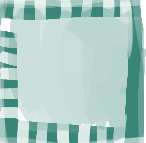
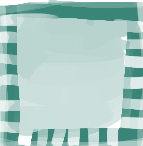
netsOfCube

diff --git a/src/quest/FindCubeUv.js b/src/quest/FindCubeUv.js
@@ -1,8 +1,11 @@
 import React, {useState, useEffect} from 'react';
 import { QuestSketch, IntroHeader, CubeUv, CubeUvArea, IntroButtonHolder, IntroButton } from '../styles/divStore';
 import { precache } from 'sw-toolbox';
+import nets from './netsOfCube';
 
-const uvId = (u, v) => `${u}:${v}`;
+const WIDTH = 5;
+const HEIGHT = 7;
+const uvId = (u, v) => `${u}${v}`;
 
 const randomCubUvMatrix = (x, y) => {
   return Array( x * y ).fill(0).map( (_, i) => {
@@ -17,8 +20,29 @@ const randomCubUvMatrix = (x, y) => {
   });
 };
 
-const CubeUvFragment = (selections, handleSelect) => ({side, dir, key}) => {
-  const selectedStyle = selections[key] ? {filter: 'brightness(2)'} : {}; // {border: '3px solid gold'}
+const getRandomNet = (index = Math.random() * nets.length | 0) => nets[index];
+
+const placeCubeShape = (net, position=[1,2], setMatrix) => {
+  const [x,y] = position;
+  const netMatrix = net.split(/\n/).filter(hor => hor.length).map(hor => hor.split(':'));
+  console.log(netMatrix);
+  setMatrix( mtx => {
+    netMatrix.map((hor, iy) => hor.map((uv, ix) => {
+        const [u,v] = [x + ix, y + iy];
+        const pos = u + v * WIDTH;
+        let [side, dir] = uv.split('');
+        dir.replace('Y','N').replace('J','S');        
+        if (side !== '-' && mtx[pos]) {
+          mtx[pos] = {...(mtx[pos]), side, dir, fine:true};
+        }        
+      })      
+    );
+    return mtx;    
+  });
+}
+
+const CubeUvFragment = (selections, handleSelect, hasWin) => ({side, dir, key}) => {
+  const selectedStyle = selections[key] ? hasWin ?  {filter: 'brightness(4) sepia(1)'} : {filter: 'brightness(2)'} : {}; // {border: '3px solid gold'}
   return (
     <CubeUv  key={key} data-uv={side} data-dir={dir} style={selectedStyle} onClick={handleSelect(key)}/>
   );
@@ -28,6 +52,7 @@ const CubeUvFragment = (selections, handleSelect) => ({side, dir, key}) => {
 export default ({}) => {
   const [matrix, setMatrix] = useState([]);
   const [selections, setSelections] = useState({});
+  const [hasWin, setWin] = useState(false);
     
   useEffect(() => {
     randomCubUvMatrix(5, 7) |> setMatrix;
@@ -38,16 +63,10 @@ export default ({}) => {
     let matrixLookUp = matrix
       .filter(e => selectedKeys.indexOf(e.key) !== -1)
       .reduce((r, e) => ({...r, [e.key]: e}) , {});
-      
-    
-    console.log( 
-      `
---- RULES ---       
-       six : ${selectedKeys.length === 6}
-no 4 sided : ${selectedKeys.filter(key => matrixLookUp[key].side === 4)}
 
+    const found = selectedKeys.filter(key => matrixLookUp[key].fine);
+    setWin(found.length === 6 && selectedKeys.length === 6);
 
-    `);
   }, [selections]);
 
   // JSON.stringify(matrixLookUp, null, 2)
@@ -58,13 +77,14 @@ no 4 sided : ${selectedKeys.filter(key => matrixLookUp[key].side === 4)}
   const handleSolutionIsValid = event => {
     const selectedUvs = matrix.filter(({key}) => selections[key]);
     const [first, second] = selectedUvs;
+
     if (selectedUvs.length === 1) { 
-      first.dir = {N:'W',W:'S',S:'E',E:'N'}[first.dir];
-      setMatrix(prev => prev.map(uv => uv.key === first.key ? first : uv) );
+      first.dir = {N:'E',E:'S',S:'W',W:'N'}[first.dir];
+      setMatrix(mtx => mtx.map(uv => uv.key === first.key ? first : uv) );
     }
 
     if (selectedUvs.length === 2) { 
-      setMatrix(prev => prev.map(
+      setMatrix(mtx => mtx.map(
         uv => uv.key === first.key 
           ? ({...uv, side:second.side}) 
           : uv.key === second.key 
@@ -80,13 +100,15 @@ no 4 sided : ${selectedKeys.filter(key => matrixLookUp[key].side === 4)}
     <QuestSketch style={{overflow:'hidden'}} >
       <IntroHeader>Meg kell találni a kocka kiterített lapjait.</IntroHeader>
       <CubeUvArea >
-        {matrix.map(CubeUvFragment(selections, handleSelect))}
+        {matrix.map(CubeUvFragment(selections, handleSelect, hasWin))}
       </CubeUvArea>
       <IntroButtonHolder>
         <IntroButton onClick={handleSolutionIsValid}>Ellenőrzés</IntroButton>
         <IntroButton onClick={e => {
-          randomCubUvMatrix(5, 7) |> setMatrix;
+          randomCubUvMatrix(WIDTH, HEIGHT) |> setMatrix;
           setSelections({})
+          const rnet = getRandomNet();
+          placeCubeShape(rnet, [Math.random() * 3 | 0, Math.random() * 3 | 0], setMatrix);      
         }}>Reset</IntroButton>        
       </IntroButtonHolder>
     </QuestSketch>

diff --git a/src/quest/netsOfCube.js b/src/quest/netsOfCube.js
@@ -1,0 +1,83 @@
+export default [
+
+// 2N = 2N | 2S
+// 0J = 0N | 0E | 0S | 0W  
+ 
+`
+3E:1N:3W
+--:2Y:--
+--:2Y:--
+--:3N:--
+`
+,
+`
+--:5E:3W
+3E:1E:--
+--:2Y:--
+--:3N:--
+`
+,
+`
+--:5E:3W
+--:2Y:--
+3E:1E:--
+--:3N:--
+`
+,
+`
+--:5E:3W
+--:2Y:--
+--:2Y:--
+3E:5W:--
+`
+,
+`
+--:3S:--
+--:1W:3W
+3E:1E:--
+--:3N:--
+`
+,
+`
+--:3S:--
+3E:0J:3W
+--:2Y:--
+--:3N:--
+`
+,
+`
+--:--:3S
+3E:1N:5W
+--:2Y:--
+--:3N:--
+`
+,
+`
+--:--:3S
+--:5E:5W
+3E:1W:--
+--:3N:--
+`
+,
+`
+--:5E:3W
+--:2Y:--
+5E:5W:--
+3N:--:--
+`
+,
+`
+--:--:3S
+--:5E:5W
+5E:5W:--
+3N:--:--
+`
+,
+`
+--:3S
+--:2Y
+5E:5W
+2Y:--
+3N:--
+`
+];

diff --git a/version.js b/version.js
@@ -1,1 +1,1 @@
-module.exports = '0.293';
+module.exports = '0.303';

diff --git a/assets/document/findCubeUv.md b/assets/document/findCubeUv.md
@@ -4,7 +4,6 @@
 
 
 0. 3x4
-
 3E  1N  3W
 --- 2NS ---
 --- 2NS ---
